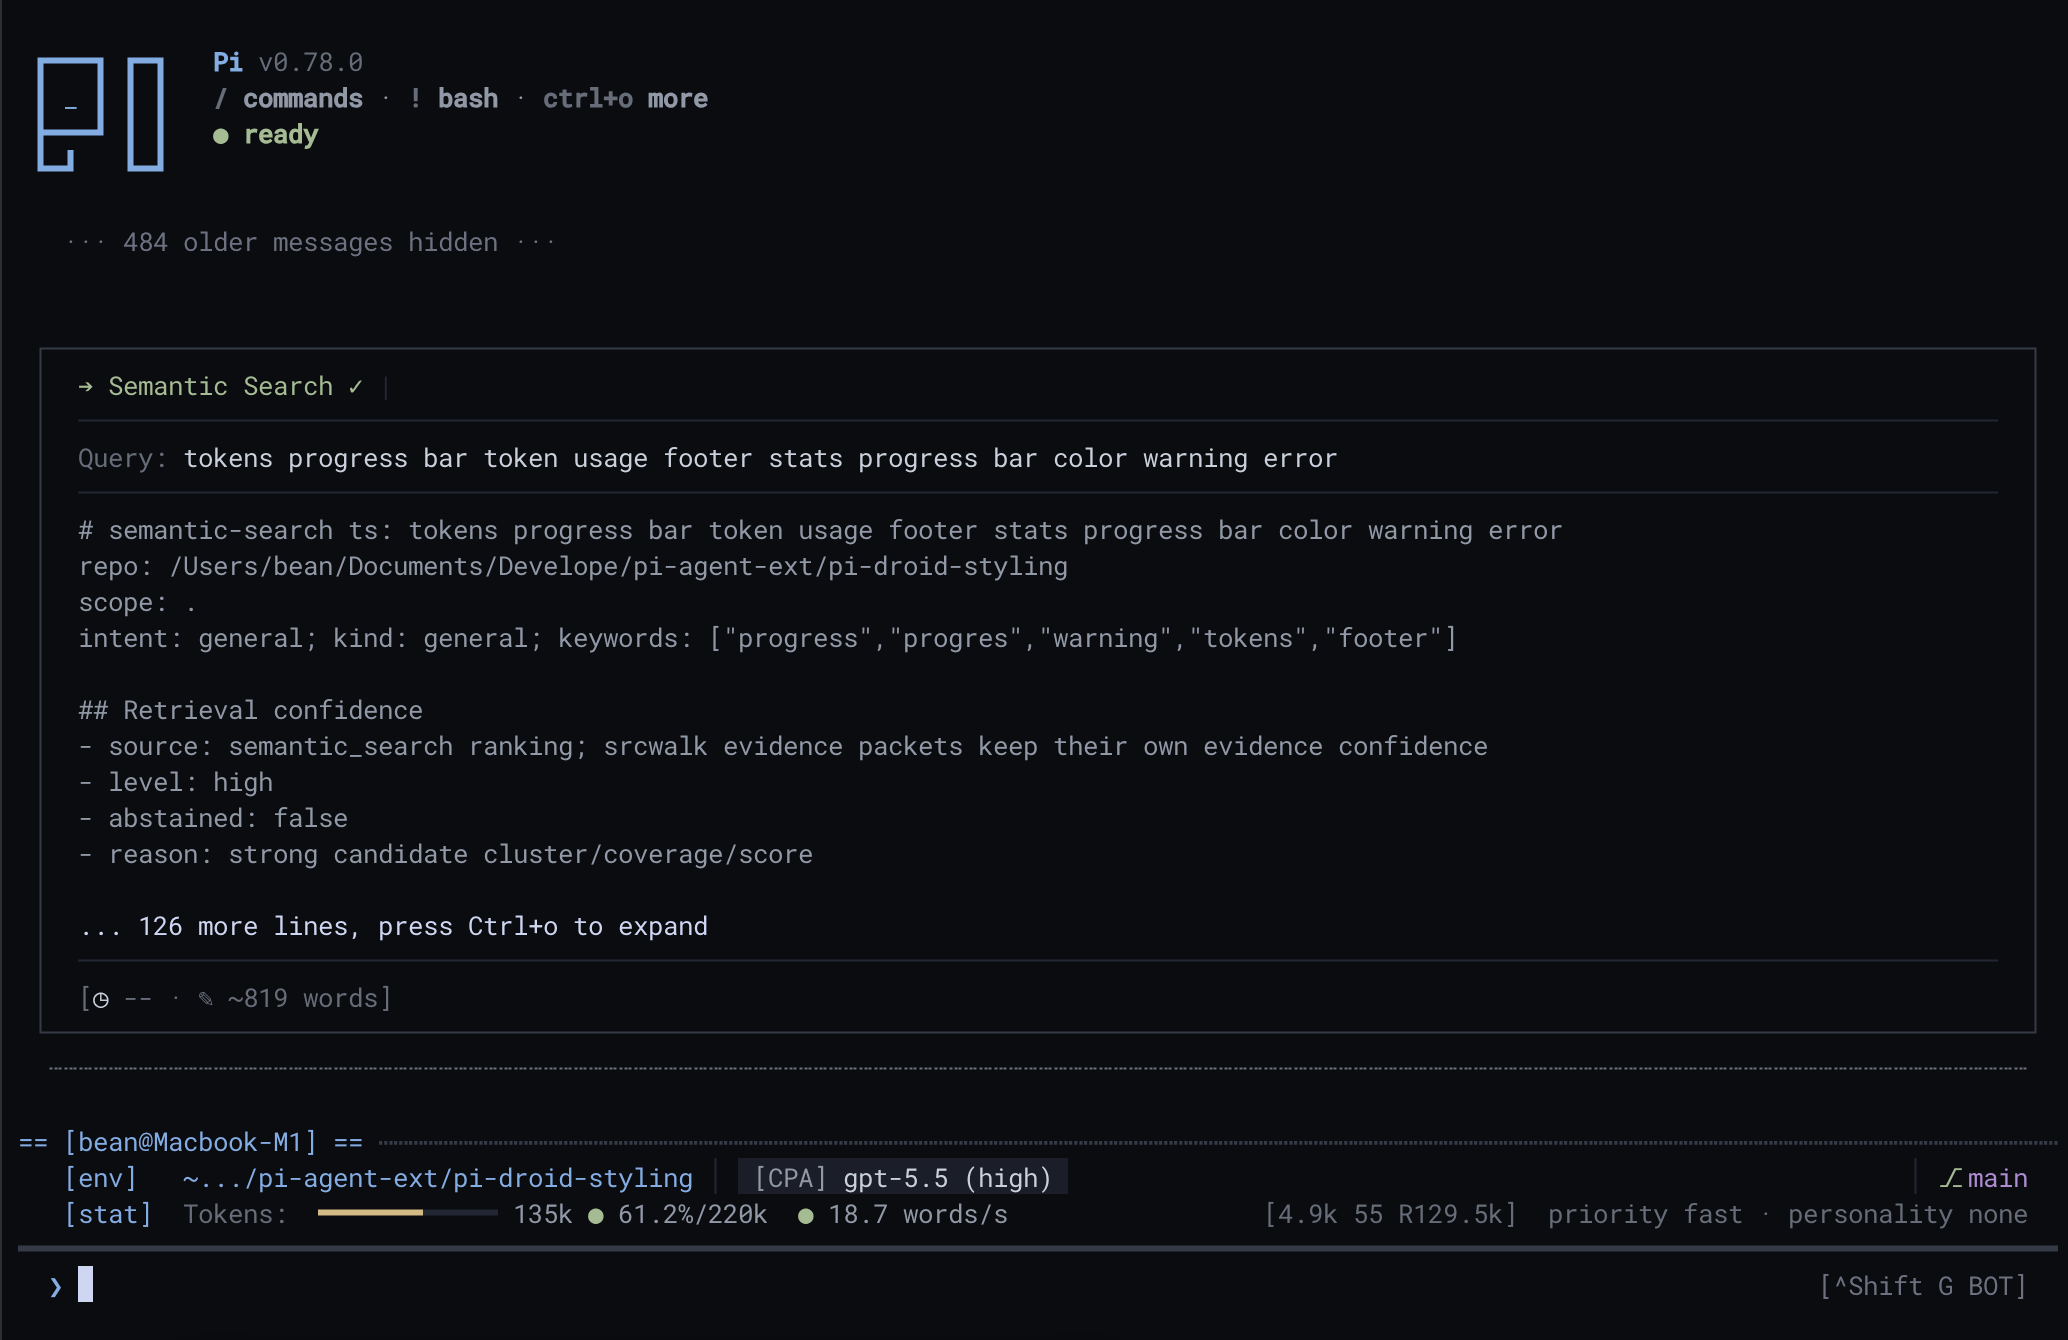
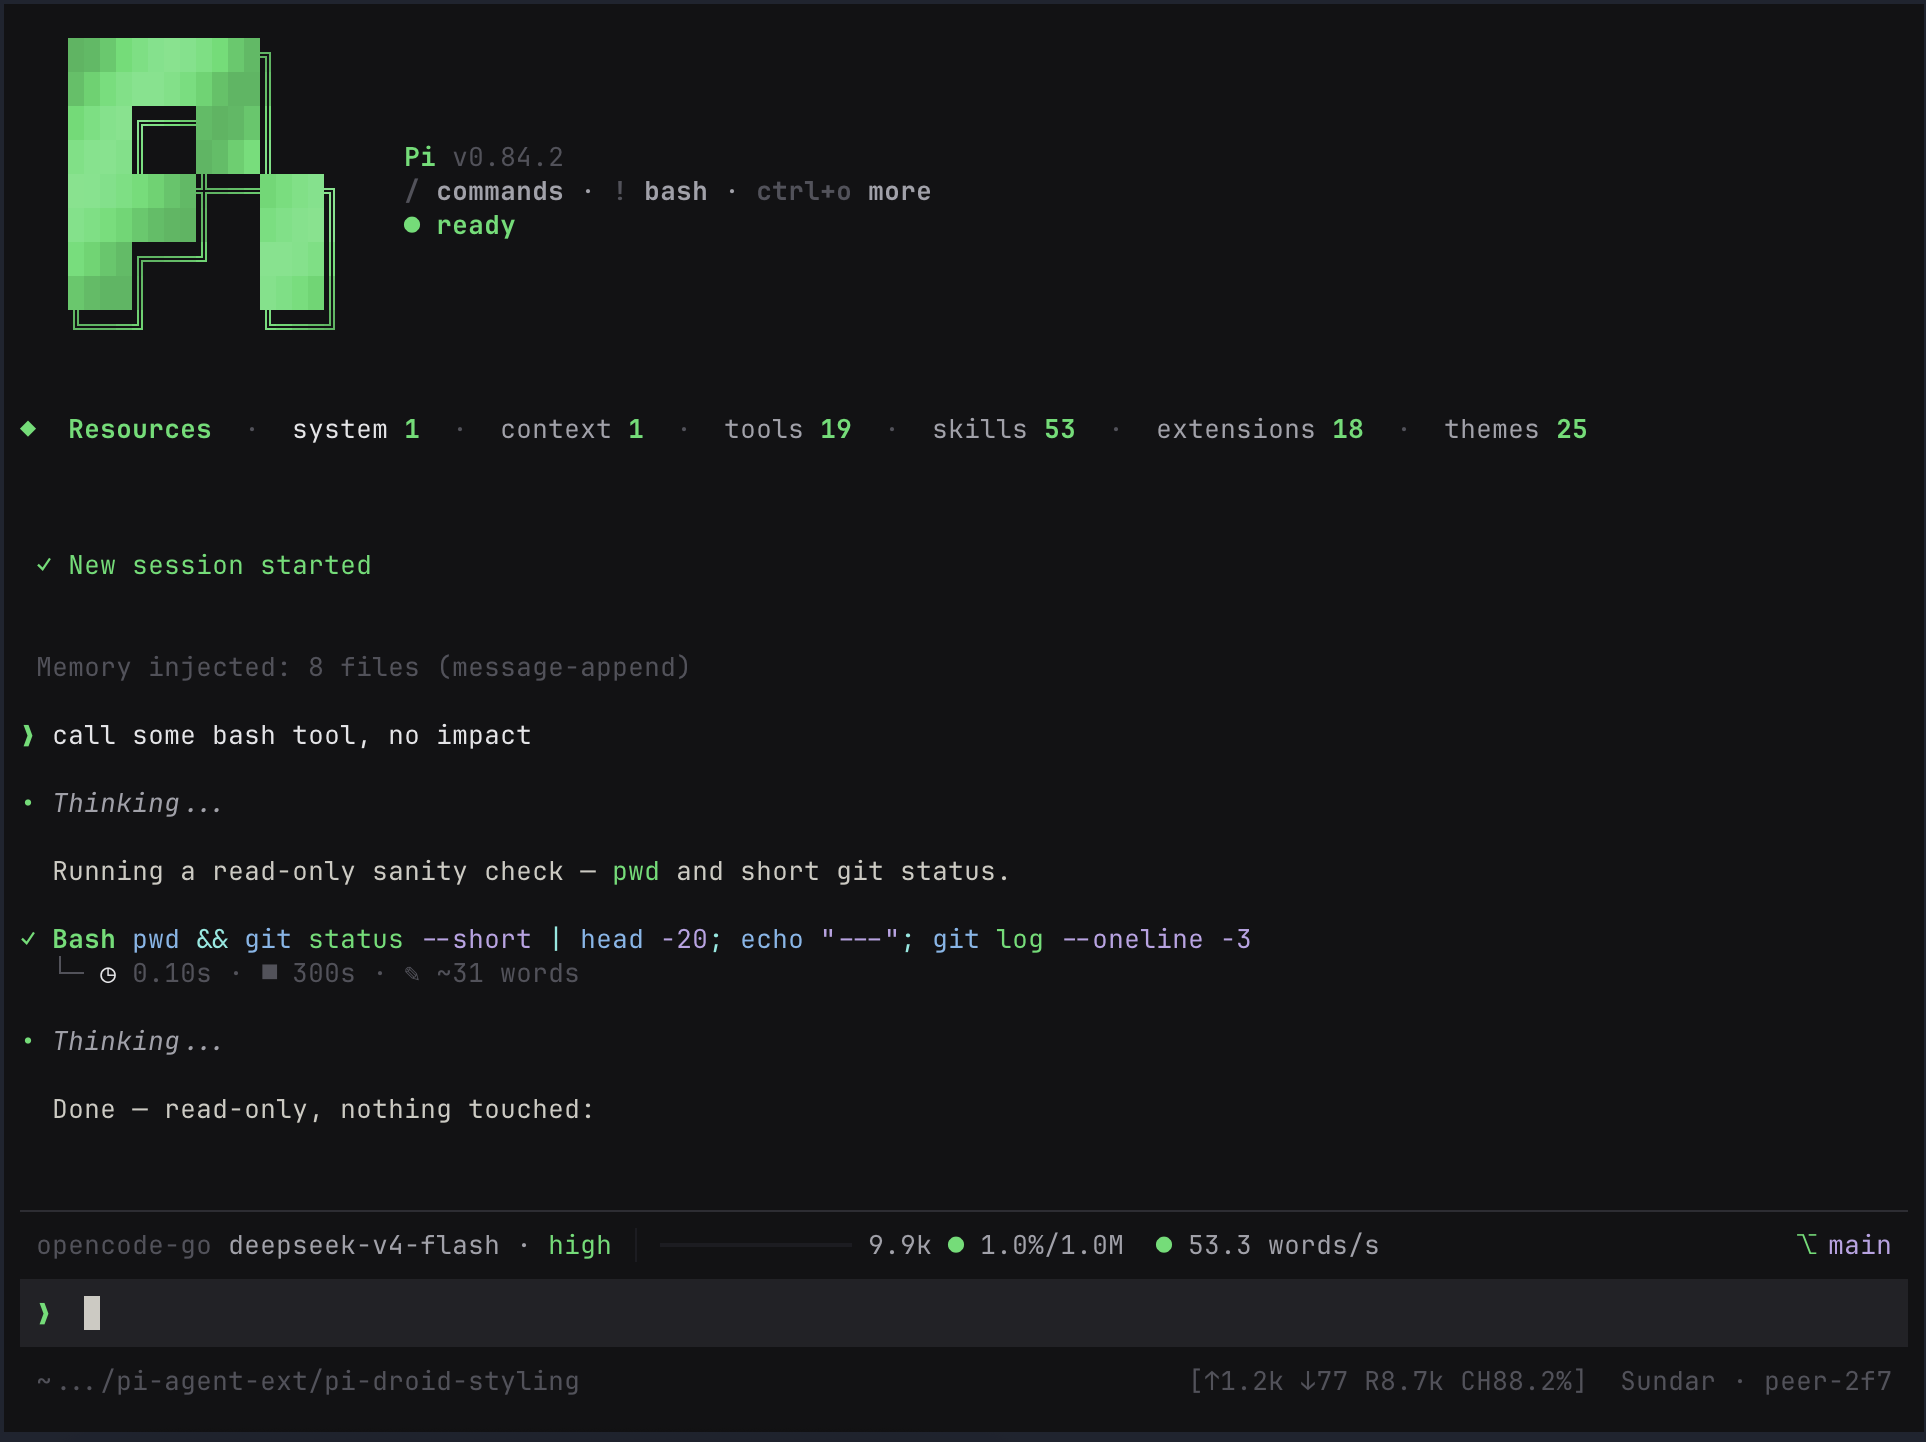
Release pi-droid-styling 2.9.1

diff --git a/CHANGELOG.md b/CHANGELOG.md
@@ -1,5 +1,10 @@
 # Changelog
 
+## 2.9.1 - 2026-08-17
+
+### Changed
+- Refresh the README screenshot to show the current interface.
+
 ## 2.9.0 - 2026-08-17
 
 ### Added
